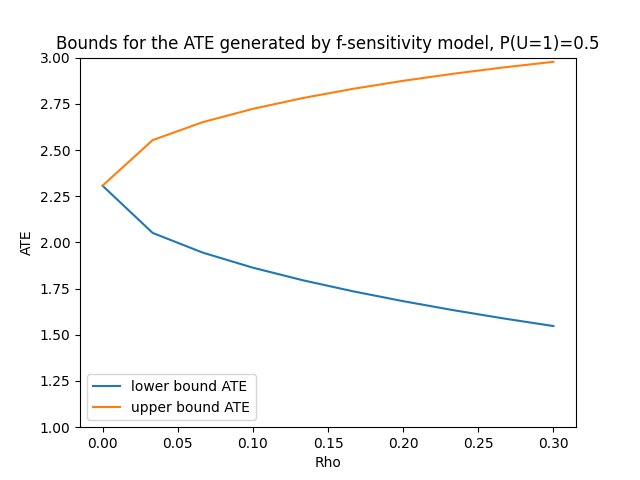
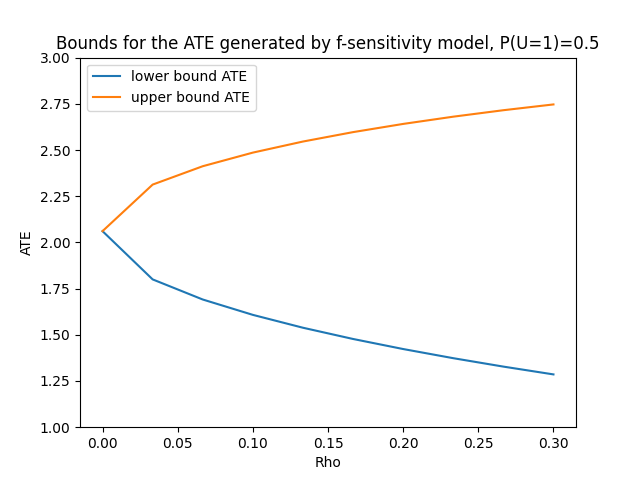
Work for week 5

diff --git a/models/SensitivityModels.py b/models/SensitivityModels.py
@@ -1,73 +1,94 @@
+import functools
 import math
+import threading
+import time
 
 import pyomo.core
 from pyomo.core import *
 from pyomo.environ import *
 import numpy as np
 import matplotlib.pyplot as plt
+import functools
 
 import pandas as pd
 
+print("START PREP...")
+p = 0
+# df = pd.read_csv(f"../csv_files/regular_{int(100*p)}.csv")
+all_data = pd.read_csv(f"../csv_files/data_adjusted.csv")
+# data = all_data[all_data["T0"] == treatement]
 
-def create_msm_model(data, gamma, treatement, is_lower_bound):
-    # Data according to treated
-    all_data = data
-    data = data[data["T0"] == treatement]
+# Get distinct x values - potentially group them
+x_features = list(filter(lambda c: "X" in c, all_data.columns))
+X = all_data.groupby(x_features, as_index=False).size()
+x_size = len(X)
+X["prior"] = X["size"] / sum(X["size"])
 
-    # Get distinct x values - potentially group them
-    x_features = list(filter(lambda c: "X" in c, data.columns))
-    X = data[data["T0"] == treatement].groupby(x_features, as_index=False).size()
-    x_size = len(X)
-    X["prior"] = X["size"] / sum(X["size"])
+# Get distinct y values - potentially group them
+Y = all_data.groupby(["Y0"], as_index=False).size()
+y_size = len(Y)
+Y["prior"] = Y["size"] / sum(Y["size"])
 
-    # Get distinct y values - potentially group them
-    Y = data.groupby(["Y0"], as_index=False).size()
-    y_size = len(Y)
-    Y["prior"] = Y["size"] / sum(Y["size"])
+# Propensity scores
+all_data_frequency = all_data.groupby(x_features, as_index=False).size()
+treated_data_frequency = all_data[all_data["T0"] == 1].groupby(x_features, as_index=False).size()
+treated_data_frequency.rename(columns={"size": "treated_size"}, inplace=True)
+propensity_scores = pd.merge(all_data_frequency, treated_data_frequency, on=x_features, how='left')
+propensity_scores.fillna(0, inplace=True)
+propensity_scores["propensity_score"] = propensity_scores["treated_size"] / propensity_scores["size"]
 
-    # Propensity scores
-    all_data_frequency = all_data.groupby(x_features, as_index=False).size()
-    treated_data_frequency = all_data[all_data["T0"] == treatement].groupby(x_features, as_index=False).size()
-    treated_data_frequency.rename(columns={"size": "treated_size"}, inplace=True)
-    propensity_scores = pd.merge(all_data_frequency, treated_data_frequency, on=x_features, how='left')
-    propensity_scores.fillna(0, inplace=True)
-    propensity_scores["propensity_score"] = propensity_scores["treated_size"] / propensity_scores["size"]
+# Y Probabilities: P(Y| X, T)
+x_and_y_features = x_features.copy()
+x_and_y_features.append("Y0")
+x_and_y_features.append("T0")
+y_probabilities = all_data.groupby(x_and_y_features, as_index=False).size()
+y_probabilities["probability"] = y_probabilities["size"] / sum(y_probabilities["size"])
+n = sum(y_probabilities["size"])
 
-    # Y Probabilities: P(Y| X, T)
-    x_and_y_features = x_features.copy()
-    x_and_y_features.append("Y0")
-    y_probabilities = data.groupby(x_and_y_features, as_index=False).size()
-    y_probabilities["probability"] = y_probabilities["size"] / sum(y_probabilities["size"])
-    n = sum(y_probabilities["size"])
-
-    def propensity(x_index):
-        x = X.iloc[x_index]
-        return \
-        propensity_scores[np.all(propensity_scores[x_features] == x[x_features], axis=1)]["propensity_score"].iloc[0]
-
-    def p(y_index, x_index):
+size_helper = {}
+def thread_helper(y_index, t):
+    for x_index in range(x_size):
         x = X.iloc[x_index]
         y = Y.iloc[y_index]
-        selection = y_probabilities[
-            np.all(y_probabilities[x_features] == x[x_features], axis=1) & np.all(y_probabilities[["Y0"]] == y[["Y0"]],
-                                                                                  axis=1)]
-        if len(selection) == 0:
-            return 0
-        return selection["size"].iloc[0] / x["size"]
+        size_helper[(t, y_index, x_index)] = y_probabilities[np.all(y_probabilities["T0"] == t) &
+        np.all(y_probabilities[x_features] == x[x_features], axis=1) & np.all(y_probabilities[["Y0"]] == y[["Y0"]],
+                                                                              axis=1)]
+threads = []
+for i in range(y_size):
+    threads.append(threading.Thread(target=thread_helper, args=[i, 0]))
+    threads[-1].start()
+for thread in threads:
+    thread.join()
+for i in range(y_size):
+    threads.append(threading.Thread(target=thread_helper, args=[i, 1]))
+    threads[-1].start()
+for thread in threads:
+    thread.join()
+def propensity(x_index, t):
+    x = X.iloc[x_index]
+    return \
+    propensity_scores[np.all(propensity_scores[x_features] == x[x_features], axis=1)]["propensity_score"].iloc[0]
 
-    def size(y_index, x_index):
-        x = X.iloc[x_index]
-        y = Y.iloc[y_index]
-        selection = y_probabilities[
-            np.all(y_probabilities[x_features] == x[x_features], axis=1) & np.all(y_probabilities[["Y0"]] == y[["Y0"]],
-                                                                                  axis=1)]
-        if len(selection) == 0:
-            return 0
-        return selection["size"].iloc[0]
+def p(y_index, x_index, t):
+    x = X.iloc[x_index]
+    selection = size_helper[(t, y_index, x_index)]
+    if len(selection) == 0:
+        return 0
+    return selection["size"].iloc[0] / x["size"]
 
-    def get_value(y):
-        return Y.iloc[y]["Y0"]
+def size(y_index, x_index, t):
+    selection = size_helper[(t, y_index, x_index)]
+    if len(selection) == 0:
+        return 0
+    return selection["size"].iloc[0]
 
+def get_value(y):
+    return Y.iloc[y]["Y0"]
+
+print("PREP FINISHED.")
+
+def create_msm_model(gamma, t, is_lower_bound):
+    start_time = time.time()
     model = ConcreteModel(name="MarginalSensitivityModel")
     model.X = RangeSet(0, x_size - 1)
     model.Y = RangeSet(0, y_size - 1)
@@ -75,33 +96,35 @@ def create_msm_model(data, gamma, treatement, is_lower_bound):
 
     # Constraint 1: Lambda is a distribution of Y | X, T
     def distribution_constraint(model):
-        return sum([sum(model.lam[x, y] * size(y ,x) for y in model.Y) for x in model.X]) / n == 1
+        return sum([sum(model.lam[x, y] * size(y ,x, t) for y in model.Y) for x in model.X]) / n == 1
 
     model.c1 = Constraint(rule=distribution_constraint)
 
     # Constraint 2: Propensity scores remains unchanged
     def propensity_constraint(model):
-        return sum([sum([propensity(x) * model.lam[x, y] * size(y, x) for y in model.Y]) for x in model.X]) / n == sum(
-            [sum([propensity(x) * size(y, x) for y in model.Y]) for x in model.X]) / n
+        return sum([sum([propensity(x, t) * model.lam[x, y] * size(y, x, t) for y in model.Y]) for x in model.X]) / n == sum(
+            [sum([propensity(x, t) * size(y, x, t) for y in model.Y]) for x in model.X]) / n
 
     model.c2 = Constraint(rule=propensity_constraint)
 
     # Constraint 3: Distribution of Y unchanged
     def p_constraint(model):
-        return sum([sum([p(y, x) * model.lam[x, y] * X.iloc[x]["size"] for x in model.X]) / sum(X["size"]) for y in model.Y]) == sum([sum(
-            [p(y, x) * X.iloc[x]["size"] for x in model.X]) / sum(X["size"]) for y in model.Y])
+        return sum([sum([p(y, x, t) * model.lam[x, y] * X.iloc[x]["size"] for x in model.X]) / sum(X["size"]) for y in model.Y]) == sum([sum(
+            [p(y, x, t) * X.iloc[x]["size"] for x in model.X]) / sum(X["size"]) for y in model.Y])
 
     model.c3 = Constraint(rule=p_constraint)
 
     # Objective: Find the bound
     def objective_function(model):
-        return sum([sum([get_value(y) * model.lam[x, y] * size(y, x) for y in model.Y]) for x in model.X]) / n
+        return sum([sum([get_value(y) * model.lam[x, y] * size(y, x, t) for y in model.Y]) for x in model.X]) / n
 
     model.OBJ = Objective(rule=objective_function,
                           sense=pyomo.core.minimize if is_lower_bound else pyomo.core.maximize)
 
     opt = SolverFactory('glpk')
+    opt.options['tmlim'] = 100
     opt.solve(model)
+    print(f"End: {time.time() - start_time}")
     # model.display()
     return model.OBJ()
 
@@ -109,7 +132,7 @@ def create_msm_model(data, gamma, treatement, is_lower_bound):
 def create_f_sensitivity_model(data, rho, treatment, is_lower_bound):
     # Data according to treated
     all_data = data
-    p_treated = len(data[data["T0"] == treatment]) / len(all_data)
+    p_treated = len(data[data["T0"] == 1]) / len(all_data)
     data = data[data["T0"] == treatment]
     f = lambda t: t * log(t)
 
@@ -126,7 +149,7 @@ def create_f_sensitivity_model(data, rho, treatment, is_lower_bound):
 
     # Propensity scores
     all_data_frequency = all_data.groupby(x_features, as_index=False).size()
-    treated_data_frequency = all_data[all_data["T0"] == treatment].groupby(x_features, as_index=False).size()
+    treated_data_frequency = all_data[all_data["T0"] == 1].groupby(x_features, as_index=False).size()
     treated_data_frequency.rename(columns={"size": "treated_size"}, inplace=True)
     propensity_scores = pd.merge(all_data_frequency, treated_data_frequency, on=x_features, how='left')
     propensity_scores.fillna(0, inplace=True)
@@ -204,39 +227,39 @@ def create_f_sensitivity_model(data, rho, treatment, is_lower_bound):
     return model.OBJ()
 
 
-def bounds_creator(data, sensitivity_model, sensitivity_measure):
-    sensitivity = (lambda t, l: create_msm_model(data, gamma=sensitivity_measure, treatement=t, is_lower_bound=l)) \
+def bounds_creator(sensitivity_model, sensitivity_measure):
+    sensitivity = (lambda t, l: create_msm_model(gamma=sensitivity_measure, t=t, is_lower_bound=l)) \
         if sensitivity_model == 'msm' else \
-        lambda t, l: create_f_sensitivity_model(data, rho=sensitivity_measure, treatment=t, is_lower_bound=l)
+        lambda t, l: create_f_sensitivity_model(all_data, rho=sensitivity_measure, treatment=t, is_lower_bound=l)
     lower_control_bound = sensitivity(0, True)
     lower_treated_bound = sensitivity(1, True)
     upper_control_bound = sensitivity(0, False)
     upper_treated_bound = sensitivity(1, False)
 
     # Get data parameters for ATE
-    average_y_control = data[data["T0"] == 0]["Y0"].mean()
-    average_y_treated = data[data["T0"] == 1]["Y0"].mean()
+    average_y_control = all_data[all_data["T0"] == 0]["Y0"].mean()
+    average_y_treated = all_data[all_data["T0"] == 1]["Y0"].mean()
 
     # Compute the bounds
     return average_y_control, average_y_treated, lower_control_bound, lower_treated_bound, upper_control_bound, upper_treated_bound
 
 
 if __name__ == '__main__':
-    p = 0.99
-    df = pd.read_csv(f"../csv_files/regular_{int(100*p)}.csv")
     lower_res = []
     upper_res = []
     control = []
     treated = []
-    gammas = np.linspace(1, 3, 10)
+    gammas = np.linspace(1, 9, 10)
     for gamma in gammas:
-        y_control, y_treated, lower_control, lower_treated, upper_control, upper_treated = bounds_creator(df,
-                                                                                                          sensitivity_model='msm',
+        print(gamma)
+        y_control, y_treated, lower_control, lower_treated, upper_control, upper_treated = bounds_creator(
+                                                                                                        sensitivity_model='msm',
                                                                                                           sensitivity_measure=gamma)
-        lower_res.append(lower_treated - upper_control)
-        upper_res.append(upper_treated - lower_control)
-        control.append([lower_control, upper_control])
-        treated.append([lower_treated, upper_treated])
+        lower_res.append(0.1 * (lower_treated - upper_control))
+        upper_res.append(0.1 * (upper_treated - lower_control))
+        control.append([0.1 * lower_control, 0.1 * upper_control])
+        treated.append([0.1 * lower_treated, 0.1 * upper_treated])
+        print(lower_res[-1], upper_res[-1], control[-1], treated[-1])
     control = np.array(control)
     treated = np.array(treated)
     plt.plot(gammas, lower_res, label='lower bound ATE')
@@ -244,7 +267,7 @@ if __name__ == '__main__':
     plt.title(f'Bounds for the ATE generated by MSM, P(U=1)={p}')
     plt.xlabel('Gamma')
     plt.ylabel('ATE')
-    plt.ylim(1, 3)
+    # plt.ylim(1, 3)
     plt.legend()
     plt.savefig(f"../msm_ate_{int(100*p)}_{len(df)}.png")
     plt.show()
@@ -264,6 +287,8 @@ if __name__ == '__main__':
     plt.legend()
     plt.savefig(f"../msm_treated_{int(100*p)}_{len(df)}.png")
     plt.show()
+
+    exit()
 
     # F-sensitivity
     lower_res = []

diff --git a/models/UncertaintySensitivityModels.py b/models/UncertaintySensitivityModels.py
@@ -27,7 +27,7 @@ def create_msm_model(data, gamma, treatement, is_lower_bound, alpha_prop, alpha_
 
     # Propensity scores
     all_data_frequency = all_data.groupby(x_features, as_index=False).size()
-    treated_data_frequency = all_data[all_data["T0"] == treatement].groupby(x_features, as_index=False).size()
+    treated_data_frequency = all_data[all_data["T0"] == 1].groupby(x_features, as_index=False).size()
     treated_data_frequency.rename(columns={"size": "treated_size"}, inplace=True)
     propensity_scores = pd.merge(all_data_frequency, treated_data_frequency, on=x_features, how='left')
     propensity_scores.fillna(0, inplace=True)
@@ -145,7 +145,7 @@ def create_f_sensitivity_model(data, rho, treatment, is_lower_bound, alpha_prop,
     # Data according to treated
     all_data = data
     p_treated = len(data[data["T0"] == treatment]) / len(all_data)
-    data = data[data["T0"] == treatment]
+    data = data[data["T0"] == 1]
     f = lambda t: t * log(t)
 
     # Get distinct x values - potentially group them
@@ -161,7 +161,7 @@ def create_f_sensitivity_model(data, rho, treatment, is_lower_bound, alpha_prop,
 
     # Propensity scores
     all_data_frequency = all_data.groupby(x_features, as_index=False).size()
-    treated_data_frequency = all_data[all_data["T0"] == treatment].groupby(x_features, as_index=False).size()
+    treated_data_frequency = all_data[all_data["T0"] == 1].groupby(x_features, as_index=False).size()
     treated_data_frequency.rename(columns={"size": "treated_size"}, inplace=True)
     propensity_scores = pd.merge(all_data_frequency, treated_data_frequency, on=x_features, how='left')
     propensity_scores.fillna(0, inplace=True)
@@ -292,7 +292,7 @@ def bounds_creator(data, sensitivity_model, sensitivity_measure):
 
 
 if __name__ == '__main__':
-    p = 0.99
+    p = 0.01
     df = pd.read_csv(f"../csv_files/regular_{int(100*p)}.csv")
     lower_res = []
     upper_res = []

diff --git a/data/predictor.py b/data/predictor.py
@@ -1,0 +1,24 @@
+import pandas as pd
+import numpy as np
+from causalml.inference.tree import *
+
+if __name__ == '__main__':
+    df = pd.read_csv("../csv_files/data.csv")
+    x_features = list(filter(lambda c: "X" in c, df.columns))
+    t_features = "T0"
+    y_features = "Y0"
+    X = df[x_features].to_numpy()
+    T = df[t_features].to_numpy()
+    Y = df[y_features].to_numpy()
+    estimator = CausalRandomForestRegressor(min_samples_leaf=20, min_samples_split=20)
+    estimator.fit(X, T, Y)
+    predictions = estimator.predict(X, with_outcomes=True)
+
+    res = pd.DataFrame(columns=[*x_features, t_features, y_features])
+    for i in range(len(X)):
+        row0 = [*X[i], 0, int(predictions[i, 0])]
+        row1 = [*X[i], 1, int(predictions[i, 1])]
+        res.loc[len(res)] = row0
+        res.loc[len(res)] = row1
+    res.to_csv("../csv_files/data_adjusted.csv")
+
